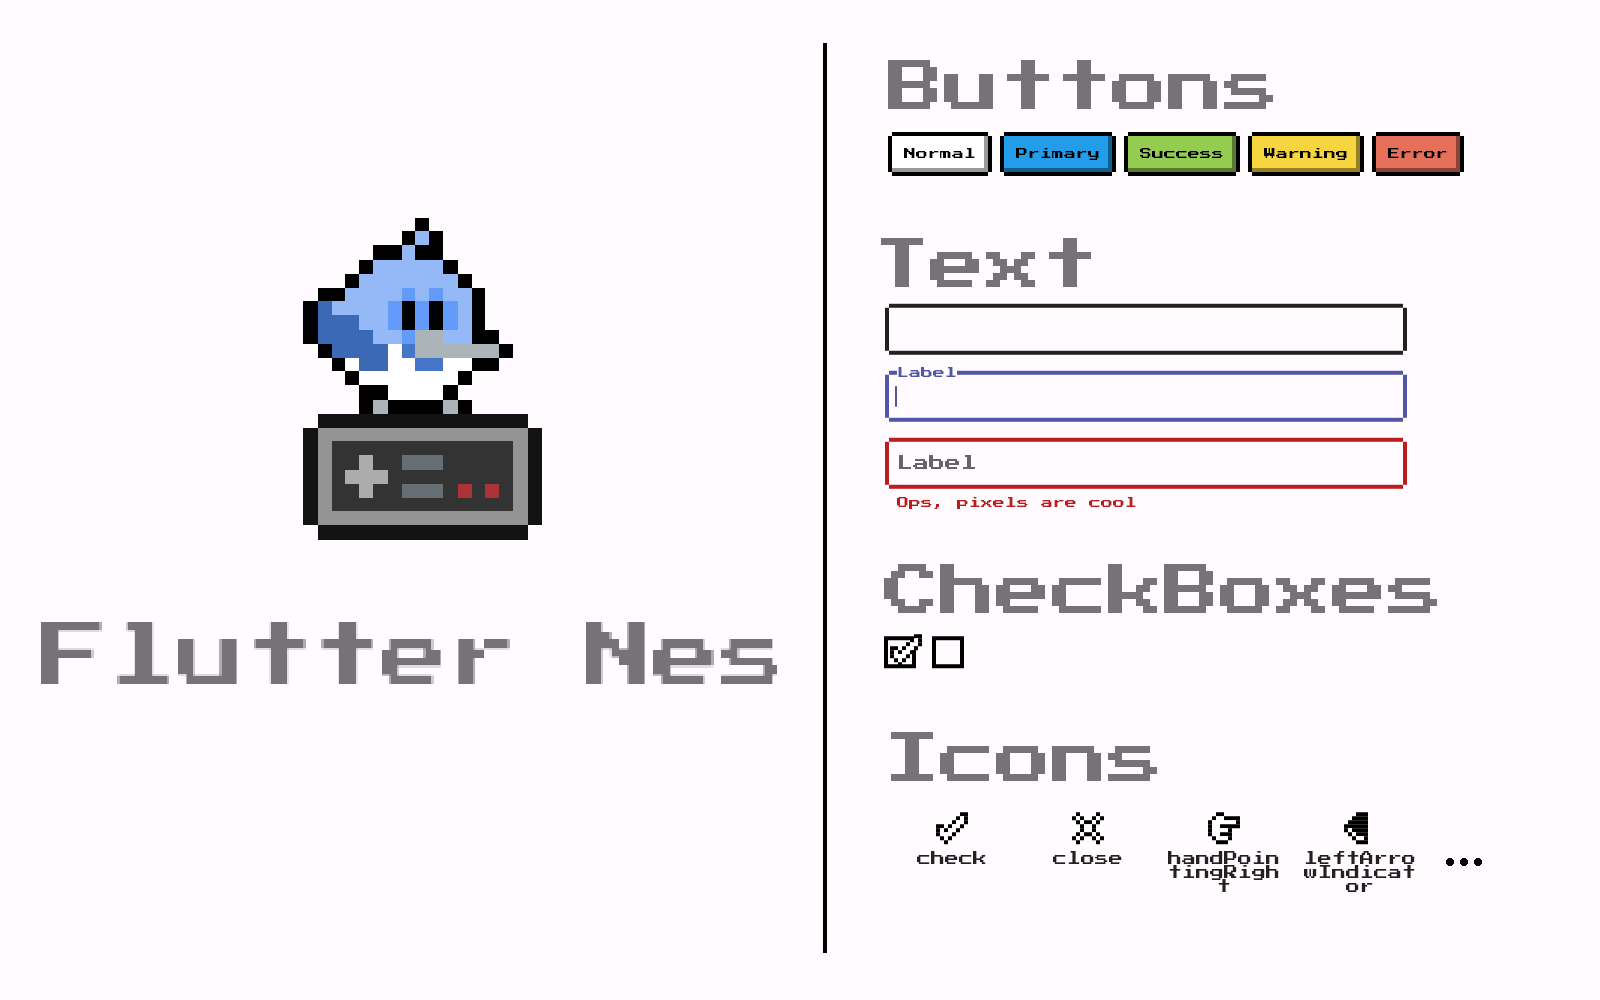
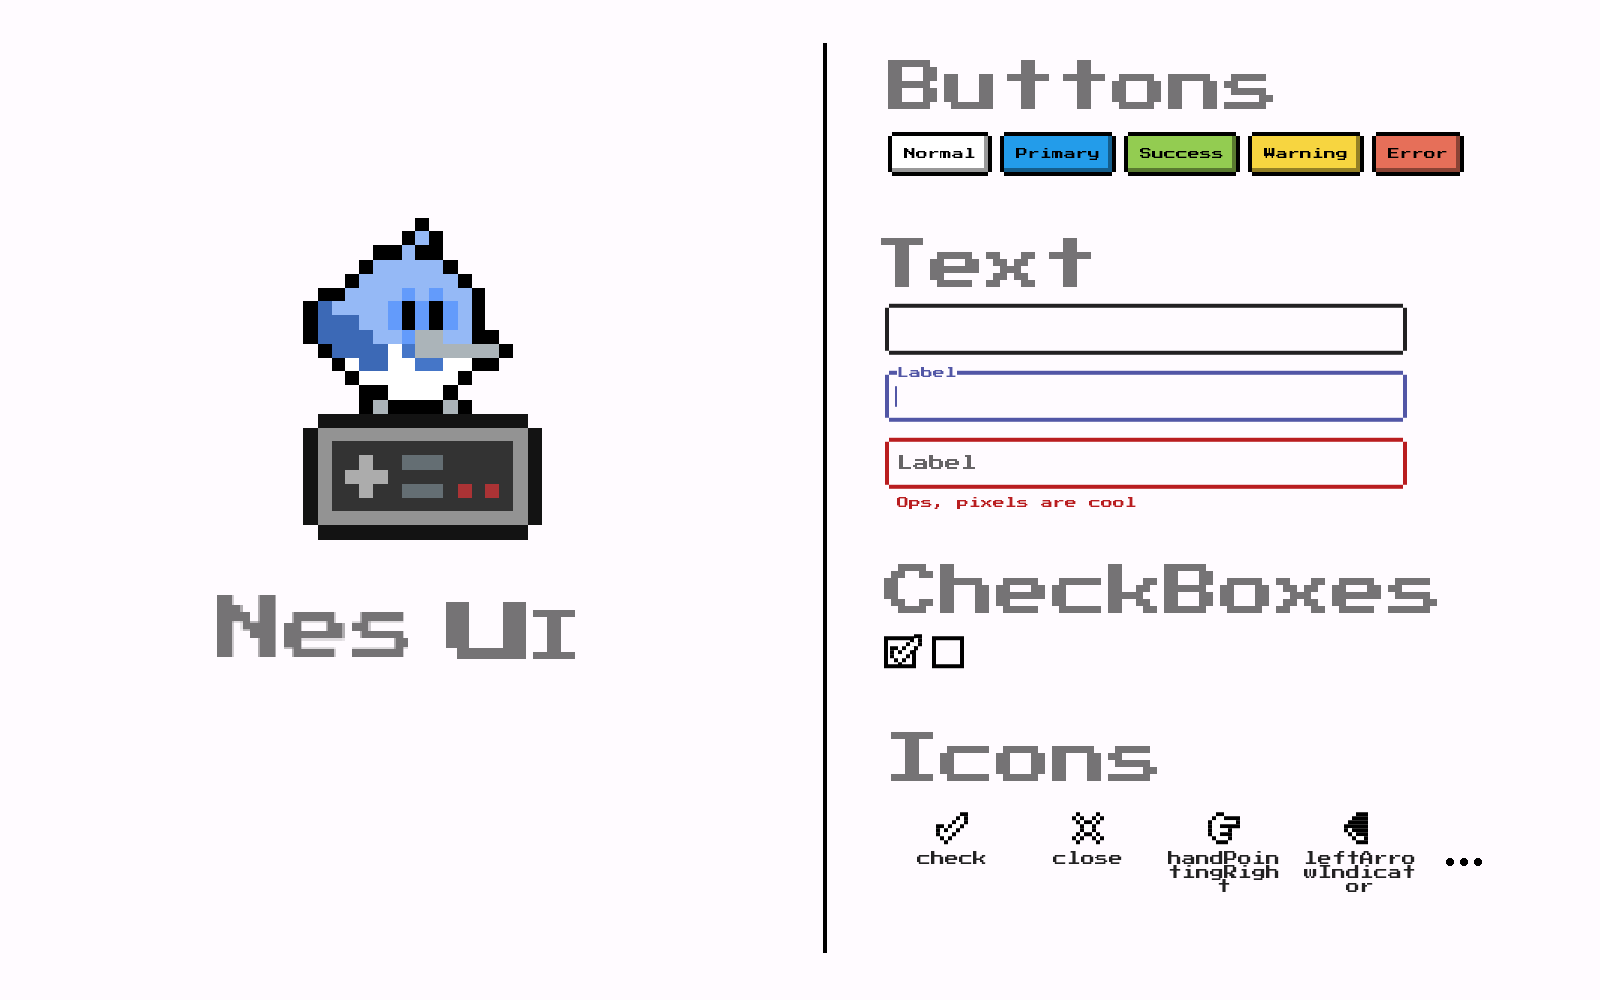
renaming again

Changed region(s): [[0.0, 0.589, 0.5, 0.682]]

diff --git a/lib/src/widgets/nes_icon.dart b/lib/src/widgets/nes_icon.dart
@@ -3,7 +3,7 @@
 import 'package:flutter/material.dart';
 import 'package:flutter_mini_sprite/flutter_mini_sprite.dart';
 import 'package:mini_sprite/mini_sprite.dart';
-import 'package:nes/nes.dart';
+import 'package:nes_ui/nes.dart';
 
 /// {@nes_icon_data}
 /// Model class holding the data of for a [NesIcon].

diff --git a/example/lib/main.dart b/example/lib/main.dart
@@ -1,7 +1,7 @@
 import 'package:example/sections/checkboxes.dart';
 import 'package:example/sections/sections.dart';
 import 'package:flutter/material.dart';
-import 'package:nes/nes.dart';
+import 'package:nes_ui/nes.dart';
 
 void main() {
   WidgetsFlutterBinding.ensureInitialized();

diff --git a/lib/src/widgets/nes_button.dart b/lib/src/widgets/nes_button.dart
@@ -1,6 +1,6 @@
 import 'package:flutter/material.dart';
-import 'package:nes/nes.dart';
-import 'package:nes/src/extensions/color.dart';
+import 'package:nes_ui/nes.dart';
+import 'package:nes_ui/src/extensions/color.dart';
 
 /// Defines the type of a [NesButton].
 enum NesButtonType {

diff --git a/lib/src/theme.dart b/lib/src/theme.dart
@@ -1,6 +1,6 @@
 import 'package:flutter/material.dart';
 import 'package:google_fonts/google_fonts.dart';
-import 'package:nes/nes.dart';
+import 'package:nes_ui/nes.dart';
 
 /// {@template nes_theme}
 /// Class with general theme information for Flutter Nes.

diff --git a/test/src/widgets/nes_container_test.dart b/test/src/widgets/nes_container_test.dart
@@ -1,6 +1,6 @@
 import 'package:flutter/material.dart';
 import 'package:flutter_test/flutter_test.dart';
-import 'package:nes/nes.dart';
+import 'package:nes_ui/nes.dart';
 
 void main() {
   group('NesContainer', () {

diff --git a/test/src/widgets/nes_check_box_test.dart b/test/src/widgets/nes_check_box_test.dart
@@ -1,6 +1,6 @@
 import 'package:flutter/material.dart';
 import 'package:flutter_test/flutter_test.dart';
-import 'package:nes/nes.dart';
+import 'package:nes_ui/nes.dart';
 
 void main() {
   group('NesCheckBox', () {

diff --git a/example/lib/sections/checkboxes.dart b/example/lib/sections/checkboxes.dart
@@ -1,5 +1,5 @@
 import 'package:flutter/material.dart';
-import 'package:nes/nes.dart';
+import 'package:nes_ui/nes.dart';
 
 class CheckBoxesSection extends StatelessWidget {
   const CheckBoxesSection({super.key});

diff --git a/example/lib/sections/containers.dart b/example/lib/sections/containers.dart
@@ -1,5 +1,5 @@
 import 'package:flutter/material.dart';
-import 'package:nes/nes.dart';
+import 'package:nes_ui/nes.dart';
 
 class ContainersSection extends StatelessWidget {
   const ContainersSection({super.key});

diff --git a/test/src/widgets/nes_button_test.dart b/test/src/widgets/nes_button_test.dart
@@ -1,6 +1,6 @@
 import 'package:flutter/material.dart';
 import 'package:flutter_test/flutter_test.dart';
-import 'package:nes/nes.dart';
+import 'package:nes_ui/nes.dart';
 
 void main() {
   group('NesButton', () {

diff --git a/test/src/widgets/nes_input_test.dart b/test/src/widgets/nes_input_test.dart
@@ -1,6 +1,6 @@
 import 'package:flutter/material.dart';
 import 'package:flutter_test/flutter_test.dart';
-import 'package:nes/nes.dart';
+import 'package:nes_ui/nes.dart';
 
 void main() {
   group('NesInput', () {

diff --git a/test/src/widgets/nes_icon_test.dart b/test/src/widgets/nes_icon_test.dart
@@ -1,6 +1,6 @@
 import 'package:flutter/material.dart';
 import 'package:flutter_test/flutter_test.dart';
-import 'package:nes/nes.dart';
+import 'package:nes_ui/nes.dart';
 
 void main() {
   group('NesIcon', () {

diff --git a/example/lib/sections/buttons.dart b/example/lib/sections/buttons.dart
@@ -1,5 +1,5 @@
 import 'package:flutter/material.dart';
-import 'package:nes/nes.dart';
+import 'package:nes_ui/nes.dart';
 
 class ButtonsSection extends StatelessWidget {
   const ButtonsSection({super.key});
